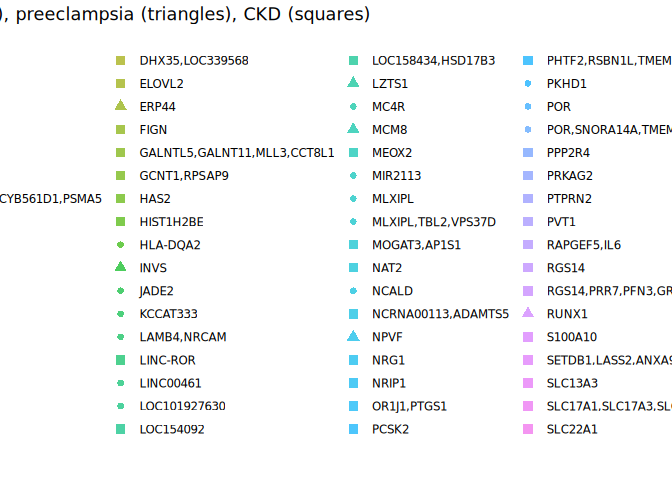
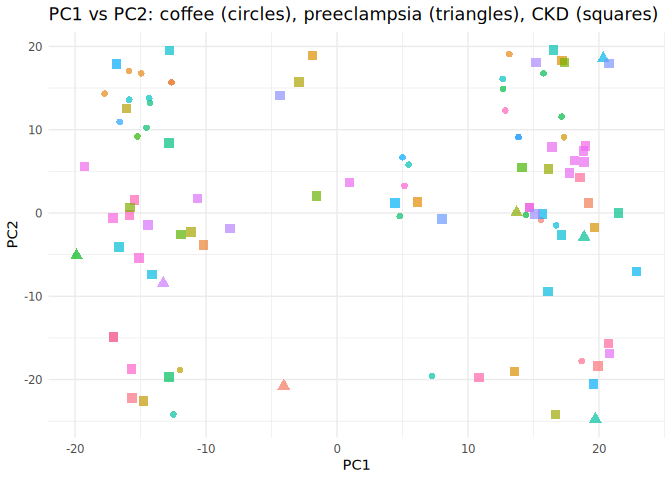
funy things

diff --git a/README.md b/README.md
@@ -26,7 +26,7 @@ library(ggplot2)
 # Use OpenRemoteParquetView to inspect the first few rows
 OpenRemoteParquetView()
 #> # Source:   table<embeddings> [?? x 6]
-#> # Database: DuckDB 1.4.0 [root@Linux 6.8.0-78-generic:R 4.5.1//tmp/RtmpCTNrgg/file89e57466fbea2.duckdb]
+#> # Database: DuckDB 1.4.0 [root@Linux 6.8.0-78-generic:R 4.5.1//tmp/RtmpaC1oPN/file8a11b57b47c4c.duckdb]
 #>    chrom pos       ref_UKB alt_UKB rsid       embedding    
 #>    <chr> <chr>     <chr>   <chr>   <chr>      <list>       
 #>  1 5     148899362 T       G       rs4705280  <dbl [3,072]>
@@ -51,7 +51,7 @@ CopyParquetToDuckDB(db_path = "local_embeddings.duckdb", overwrite = FALSE)
 )
 #> Database file 'local_embeddings.duckdb' already exists. Skipping copy.
 #>    user  system elapsed 
-#>   0.026   0.004   0.028
+#>   0.029   0.004   0.029
 file.info("local_embeddings.duckdb")$size
 #> [1] 12106084352
 ```
@@ -68,7 +68,7 @@ overwrite = FALSE)
 #> local_embeddings.houba.desc already exists.
 #> Using existing houba file and info data.
 #>    user  system elapsed 
-#>   0.556   0.047   0.567
+#>   0.557   0.062   0.577
 houba
 #> Houba mmatrix file: local_embeddings.houba 
 #> Embeddings (houba::mmatrix):
@@ -109,7 +109,7 @@ system.time(
 #> Dimensions: 616386 x 3072
 #> Running PCA with center=TRUE, scale=TRUE, ncomp=15
 #>    user  system elapsed 
-#> 359.694 119.450  55.819
+#> 361.102 118.134  54.795
 ```
 
 ## 5. Get PCA scores
@@ -171,14 +171,335 @@ preeclampsia_snps <- subset(plotDf, !is.na(gen_preeclampsia))|>
         unique()
 ckd_snps <- subset(plotDf, !is.na(gen_ckd)) |>
         unique()
-
+ckd_snps
+#>                PC1          PC2         PC3         PC4          PC5        PC6
+#> 17694   -8.1707296  -1.88110893  -0.6203109 -19.3518349  -7.26099463 15.9834875
+#> 17707  -15.1074108  -5.40505181   0.7885761 -18.9798407  -9.95432103 14.8730155
+#> 17712   14.6873125   0.62915141   0.8211190 -18.1659749  -9.72401461 15.8256590
+#> 17713   14.6873125   0.62915141   0.8211190 -18.1659749  -9.72401461 15.8256590
+#> 36481  -10.2005509  -3.82142856  -1.8724349 -22.9800034 -10.47307794 13.7570702
+#> 38806  -11.1594742  -2.25782428   1.9471137 -14.6123142  -9.85128792  7.7954153
+#> 98368  -19.2885600   5.61109719  22.3103538   2.6059541   4.50176286  6.6867847
+#> 98473   18.9819389   8.06190346  17.3092370   1.1247930   7.96556327  8.9105885
+#> 114743  16.1335753   5.29571936  19.2747163   3.0311373   6.20756077  5.8585342
+#> 124749  18.8258659   7.45439188  18.8059789   3.0852722   5.16441261  6.7037806
+#> 124775  16.4087049   7.92371706  19.6836119   2.4810578   5.95584585 12.1408469
+#> 124777  18.1383882   6.27419730  17.4768243   3.2202185   4.77404360  6.8728248
+#> 124788  18.8762203   6.14003907  18.8723139   5.0966832   3.71022620  7.0764404
+#> 124792  17.7350779   4.77401546  16.6554100   4.3862050   2.47093060  6.4235395
+#> 124800   0.9508051   3.66305112  18.7048505   8.3024639   4.80184481  3.1465195
+#> 125080  14.1169834   5.45218722  19.5992411   2.0970093   5.73580295 13.3869283
+#> 140728  18.5474976   4.26802669  18.5919938   5.7715276   4.05249853 17.8654015
+#> 184948 -12.8460678   8.41395564  18.5275873   1.4826624   5.21452451 14.3556847
+#> 193827  17.1908924  18.28810347  -9.6962566  -7.6161654  13.23137552  1.4986244
+#> 193830  -1.8875292  18.90126650 -13.7620366  -7.8586443  14.67115064  5.2543496
+#> 194543  20.7505822  17.92814976 -15.4445109 -10.4507828  17.68844316  7.9745586
+#> 194848  17.3844595  18.06908334 -12.3389516 -13.7413227  10.67127497 -0.4921044
+#> 198844  -4.3398137  14.07584268 -10.2139275  -9.4071964  17.11025476  8.9327446
+#> 210679  16.5118557  19.56028530 -10.6668968  -8.8730870  11.35142359  2.3056846
+#> 215696  15.1865044  18.05171406 -12.4565138  -7.6214521  18.54427474  0.6606322
+#> 243283 -16.8318017  17.87814694 -10.4848613  -6.5522146  15.71491159 -0.6924643
+#> 254606 -16.0882349  12.53065983  -7.5744633 -13.4858717  14.52059885 12.0338778
+#> 254626  -2.9075740  15.70709291 -11.4747899 -10.8729962  16.23241475  3.8473013
+#> 255308 -12.8057703  19.50619646 -12.2851688  -9.9078302  19.50257201  5.7566127
+#> 280318  19.6479964  -1.71290777 -12.3946386  11.9400960   1.42154702 11.2111641
+#> 295522 -16.6499217  -4.05981689 -11.0419740  14.6750710  -2.29249583  8.0186504
+#> 295524  17.1293726  -2.63673263 -11.2175684  13.2256866  -3.83212785  3.3822631
+#> 300234 -15.8630236  -0.26204662 -11.1405401  13.7647201  -2.06575122 10.3772089
+#> 305533  15.6746291  -0.10152447 -10.5229240   7.3415374   1.90950310 19.0891336
+#> 346098 -11.9214303  -2.58929657 -11.6703706  11.9185558  -1.00693794 14.3742954
+#> 350168  15.1013844  -0.11365375 -11.9964461  11.8337390  -2.67374758 15.6443484
+#> 393593  -1.5754886   2.04947271  -1.3964159   2.3219703   5.27613444 16.9814277
+#> 398552 -17.1237032  -0.62341839  -3.3957887   6.1514464   2.46753823  9.7266345
+#> 405470  21.5038992  -0.01269771  -3.2684386   4.3824922   3.82919039 14.0771358
+#> 422359   4.4090204   1.21808442  -3.2409320   4.2636164   0.24823150 12.9539599
+#> 425594   8.0204083  -0.74006294  -4.1686374   2.0095085   5.17978866 19.9522831
+#> 431874  19.2119532   1.20149302  -4.8040380  -4.7649066   3.33947148 11.8561335
+#> 436568   6.1642755   1.33505483  -0.3710476  -5.7887638  -2.62211212  8.3671210
+#> 441143  10.8535263 -19.76563489   0.1456441   9.1293784   5.80758786 11.5374337
+#> 453810  13.5403797 -19.05511863  -4.5127613   4.0392236   2.76199030 13.3174776
+#> 470261 -12.8309928 -19.68759103  -4.0883615   8.0419421  -1.88655301  4.3461918
+#> 504292  20.7230308 -15.66379092  -1.5403506  -4.1942957  10.13142821  4.2426386
+#> 505713 -15.7027593 -18.71037144   2.5466590  -5.7830766  16.05040503 16.4898356
+#> 505785 -17.0524989 -14.87486149  -4.0238391  -0.1718643  10.65450456  7.3761177
+#> 505786 -17.0524989 -14.87486149  -4.0238391  -0.1718643  10.65450456  7.3761177
+#> 522142 -10.6400036   1.71778314  -0.5889791  -9.0343820   1.17291878 17.5471804
+#> 522616 -15.4662742   1.56003271  -1.7107821  -5.9384123  -3.04418928 10.6930758
+#> 522629 -14.4325301  -1.43906079  -2.0257378  -5.4064870  -0.35959907 17.7653477
+#> 534351  19.9400923 -18.35227688   5.9209982 -13.0968862  16.71369735 -5.1855934
+#> 545314  19.5774266 -20.50486778   3.9050698 -11.3742734  15.31923626 -5.8674763
+#> 549435 -14.7834028 -22.59057911   4.8308446 -12.9377833  18.78217616 -4.1258170
+#> 554416  16.6819654 -24.21521981   6.3475716 -11.4076003  18.69654633 -8.1508529
+#> 559149  20.8129401 -16.88471075   6.1137166 -10.4776483  15.60311270 -7.7588935
+#> 563049 -15.6636305 -22.18769669   6.6315487 -11.9301128  15.25270569 -8.5402011
+#> 578225 -15.8250258   0.65309209   0.1119929  -2.0263631  -0.03830282  1.7186844
+#> 590556  22.8809711  -6.99485725  -1.4069129 -11.4693446  11.62998784  9.5666883
+#> 604260 -14.1293126  -7.37495766  -4.8011699  -7.0568948  13.36619200  5.6231758
+#> 604270  16.1012272  -9.41560597  -4.5823575 -12.1460819  15.44472353 10.7654580
+#>                PC7          PC8          PC9         PC10         PC11
+#> 17694   -3.3321155  -1.02505853   5.83789911  -1.33758396  -4.58364437
+#> 17707   -3.9240707   2.17382803   3.50380294  -6.47218428  -9.54747876
+#> 17712   -1.8492478   1.82172617   5.21899180  -2.13655889  -3.15366511
+#> 17713   -1.8492478   1.82172617   5.21899180  -2.13655889  -3.15366511
+#> 36481   -2.4800011   1.68558334   9.56225065  -2.51952312  -8.82298480
+#> 38806   -1.5835267   4.63618581  10.49623203  -8.47912164 -10.29985089
+#> 98368   -4.1439265   2.93956967   2.72052136  -4.24359985  -5.52586152
+#> 98473   -4.1240230   5.88188762   8.26709427  -4.82180644  -1.01945781
+#> 114743  -4.3651303   4.76608542  -0.81977453  -4.03515504  -6.99276638
+#> 124749  -6.2961443   1.12332514  -1.10260280  -5.73712727  -9.81607708
+#> 124775  -6.5490042   2.27669438   4.16181131  -5.77501554  -5.83446920
+#> 124777  -4.3477929   2.38736458  -1.31198319  -6.84923356  -9.61660530
+#> 124788  -7.0746854   3.66639784  -1.52248898  -5.27505325  -8.38400308
+#> 124792  -6.1079024   1.42295451   3.20604642  -8.67379203  -8.22614858
+#> 124800  -4.0344218  -0.30253410  13.48350612 -14.08434884  -5.00385701
+#> 125080  -2.1891304  -1.21679418  10.57304194   9.20045071   5.65220780
+#> 140728 -12.4377297   2.56458638  -3.31476998  -2.30649636   8.87535163
+#> 184948  -6.3279498   1.63826489   0.33502242  -3.02774541  14.81210716
+#> 193827  -7.7643503   0.29799303  -4.73599332  -2.25096122  -7.16558374
+#> 193830  -7.1431129  -0.16981756   8.86545363  -2.97329208  -2.61680028
+#> 194543 -10.6670924  -4.27913089   3.22216501  -1.69808797  -5.13040912
+#> 194848  -2.2834902  -4.34510536   6.69172575  -9.12151751  -0.28575328
+#> 198844  -3.8570517  -1.60170867  17.39691877 -12.93786048  -0.05041504
+#> 210679  -5.9423748  -2.98456650  -9.73684996  -6.68573824  11.00792100
+#> 215696  -5.7601932  -1.40589390   2.33461361  -7.18122657  -3.21709280
+#> 243283  -6.3725771  -5.36426497   2.86729398   6.33089349  -1.84481651
+#> 254606  -5.5245955  -2.03876185  -2.81255864   2.64194505  -9.08058152
+#> 254626  -0.2457480  -3.10649647  14.15116640  -3.40196382  -1.54031303
+#> 255308  -7.1559434  -5.17123539  10.57830479   8.91194085  -0.29119665
+#> 280318  -5.4431778  11.53404432   4.74125008   1.53035432  -1.01221695
+#> 295522  -5.8617157   7.25615512  15.69163374   6.36649791  -0.18010585
+#> 295524  -2.8806704   4.58866135  12.11576095   3.56639939  -2.51192288
+#> 300234  -6.5514526   9.06070307   8.61449999   9.54884677  -0.36183445
+#> 305533  -3.5273918  11.50693082   7.13341347  -7.31798327   3.13089470
+#> 346098  -9.1006487  14.82451089   4.76573862  11.21323810   4.44988599
+#> 350168  -8.4187332  15.91851509  -2.17522184  -3.74310429   5.14064256
+#> 393593  20.3918555   0.34535050  16.19795395   0.61914343   9.43956159
+#> 398552  14.8954891   1.22610020  -6.04255534  -6.49991607   8.09782988
+#> 405470  17.9918041  -2.54556291   9.22010639   5.34021053   0.33261893
+#> 422359  15.8325404   0.85832548 -21.27939229  -0.40777269   6.27829804
+#> 425594  14.8044793   2.87505064   4.60012993  -6.38420845  -2.08478315
+#> 431874   5.1497305  -3.58306196   9.42495062   7.63774027  -0.91343470
+#> 436568   1.6421624  -0.32403240  -8.68413827  13.67242642 -14.24973015
+#> 441143  -8.9414567 -15.17778175   7.47707829  -7.07071880  -6.65468304
+#> 453810 -14.0663401 -12.75305644 -10.85705233  -1.11473417  -3.08892017
+#> 470261 -10.3765359 -16.94097160   1.10184196   5.79444432  -1.31963528
+#> 504292   9.9994446  -8.23724207  -0.05026466   8.43352019  -0.21778548
+#> 505713   7.4825501  -5.83973050  -2.91514557  -2.33136381   2.82029922
+#> 505785  10.5915771  -3.20011860  -6.73796644   0.03515606  -5.03246642
+#> 505786  10.5915771  -3.20011860  -6.73796644   0.03515606  -5.03246642
+#> 522142   2.5355796   0.07591177   1.84296760   8.01421036  -4.87239530
+#> 522616  -2.4045465   1.20345589   3.66857555   9.63222580  -9.44975247
+#> 522629  -5.0533659   6.33470185   6.24597384   1.47186628  -9.77998726
+#> 534351  -0.8425488  17.28002054   1.16322415  -2.65354272  -2.54497776
+#> 545314  -3.2762345  18.18985798  -1.12072877  -1.64455742  -6.42090444
+#> 549435  -2.0173374  16.86991437  -2.29851542   0.45843208  11.34496715
+#> 554416  -1.8214956  15.29219497   5.93190403   7.91850032   6.11119025
+#> 559149  -2.2903515  15.28780539   0.69791673  -1.69929137  -6.64868843
+#> 563049  -4.8086150  17.93584035  -3.59950514  -3.79112175  10.02474981
+#> 578225   4.5970644   0.58979875   6.35189541   4.17180519  -2.35171363
+#> 590556   0.7616795   2.48120263   6.37006940   3.23107798   3.30209115
+#> 604260  -0.4746661   1.24871963  -0.12863324  -5.90857622   7.25686632
+#> 604270  -3.2607632   3.83402164   0.55293723  -7.62733660  10.75927498
+#>               PC12        PC13         PC14         PC15 chrom       pos
+#> 17694    5.3962461  2.33084215  -2.46005079   4.47065273     5 177361569
+#> 17707    1.6916309  0.01324786   4.28080801  -1.04024199     5 177386403
+#> 17712    2.5260012 -0.16911538  -1.90534706   4.74718490     5 177390635
+#> 17713    2.5260012 -0.16911538  -1.90534706   4.74718490     5 177390635
+#> 36481    7.3641629 -1.19330979  -0.88990356  -8.72651616     5  35037010
+#> 38806    1.9754195 -3.91499282  -4.34073533  -5.62462485     5  39378013
+#> 98368   -5.3991330  3.41136698   0.79757006   6.59163975     6 160122116
+#> 98473   -3.8911987  2.70979114  -5.04639356  -1.37530885     6 160247357
+#> 114743   0.1631395  1.15080983  -1.00847697  -2.33749795     6  11028421
+#> 124749   4.7908075 -0.66082490  -2.40599826  -0.31942063     6  25770638
+#> 124775  -0.1470745 -0.29325800  -1.29331939   1.72310793     6  25794203
+#> 124777   1.4804533  0.48450306   0.77609758   3.32966375     6  25799448
+#> 124788   1.6449216  1.89545307   0.77036733  -0.36387141     6  25818527
+#> 124792  -0.6620510  3.33816339  -1.62986463   3.84254712     6  25818538
+#> 124800   1.3849592  2.05264981   1.04938669   4.53530194     6  25821388
+#> 125080  -1.3199656  4.19639718   1.39991796  -1.73470695     6  26185972
+#> 140728   3.4325041 -3.38383432  -0.79046677  -3.64010360     6  43838872
+#> 184948  -5.1709909 -0.14242343   1.51979464   3.70300225     6 134503073
+#> 193827   2.0622341  2.46278078  -0.80944782   6.43841144     7 150842165
+#> 193830   2.2680049  0.42477212  -1.74935475   5.24047575     7 150845427
+#> 194543  -1.3833165  1.25219545   0.10733521  -0.94144222     7 151710715
+#> 194848  -2.4835595 -0.02834495   2.77412145   4.01821779     7 152013462
+#> 198844  -4.0779897  5.56212951  -3.84581324   1.02262730     7 157757146
+#> 210679  -3.9867186  0.76839288  -0.81426658   5.73798061     7  15693493
+#> 215696   0.8143015 -2.93695033  -0.09107121  -1.75215424     7  22474434
+#> 243283   1.9013630  0.17793119   1.28454685  -1.19988138     7  77787122
+#> 254606   9.1400465 -1.33169704   2.83110672  -4.52577614     7  99672916
+#> 254626   8.1682554 -3.44633582   1.94403104  -1.44944770     7  99735325
+#> 255308  -1.7666501 -0.85122841   2.95270028   2.58292660     7 101192604
+#> 280318   6.4852861  5.42924287  -1.05495510  -2.45926182     8   1891807
+#> 295522  -3.8311295  3.16757416  -2.18102374  -1.65853894     8  18414928
+#> 295524  -3.9762580  4.27932237   2.26046338   2.34409722     8  18415371
+#> 300234  -4.8823432  2.67871847   6.13270379   1.19090205     8  23893638
+#> 305533   0.4886822  0.44759104   7.38837259   1.69697238     8  32554841
+#> 346098  -1.1503114  5.06045141   1.91701512   1.46150014     8 121610260
+#> 350168   1.1471793  1.61238031   2.14545667   2.09734008     8 128059915
+#> 393593  -2.0333307 -4.94582912   1.90836605  -0.84573736     9  76423254
+#> 398552  -6.4140612 -5.92962067  -1.92087339   0.94896806     9  84611173
+#> 405470  -1.0652904 -5.99816305  -2.69763248   0.23971745     9  96167968
+#> 422359  -5.6933819 -3.40620820  -6.11588318  -0.39321464     9 122458945
+#> 425594  -0.7895130 -6.49566795  -4.45188406  -1.94034584     9 129112362
+#> 431874 -10.4078384  1.86021970   7.48287894  10.67681649     1  99937719
+#> 436568 -14.9775523  3.20664552  11.57375673  10.73455844     1 109457216
+#> 441143   1.7840722 -3.32413133   1.73917545   0.04372362    18    673086
+#> 453810  -3.4717703 -3.85934742  -0.80509598   0.75802464    18  26813249
+#> 470261  -1.5858874 -5.50798442   0.93067355   1.75593174    18  57097183
+#> 504292  13.0540108 20.17731076  -2.17901002   2.23482103    19  29914778
+#> 505713  15.5397808 15.36179694  -0.38348756   1.39252442    19  32692906
+#> 505785  14.3361947 12.90555790  -3.13760751   4.65429496    19  32865985
+#> 505786  14.3361947 12.90555790  -3.13760751   4.65429496    19  32865985
+#> 522142 -13.9686136  6.88854691  13.81604237  16.18058765     1 150979001
+#> 522616 -13.1958536  3.56473552  12.63977529  17.73515773     1 151967388
+#> 522629 -12.5481919  2.33977499  11.93854678  17.55613871     1 151982754
+#> 534351   1.6796840 -4.38207063  -1.44149826   0.65795897    20   2510563
+#> 545314  -2.7687459 -4.22202595 -10.08062102   1.56564132    20  17376928
+#> 549435  -5.1200326 -6.78216273  -0.09140363  -0.03783004    20  23632100
+#> 554416  -0.3019794 -7.57028999   1.11496571  -0.62686709    20  39061821
+#> 559149   3.4818633 -4.53647452  -2.39366244   2.80684086    20  46659814
+#> 563049  -0.7168325 -6.89731094  -3.94302482   3.05483677    20  52676385
+#> 578225 -19.0145763 12.22882416  -5.11852826  -7.45803187     2 163327819
+#> 590556  -7.3638422  3.11519634  22.19556729 -11.81661751    21  15204463
+#> 604260  -5.1599505 -1.29198469  20.64106607 -15.48346962    21  27362678
+#> 604270  -6.6769960 -1.48146205  24.80044827 -14.12812144    21  27372037
+#>        ref_UKB alt_UKB       rsid gen_coffee gen_preeclampsia
+#> 17694        C       T  rs4976646       <NA>             <NA>
+#> 17707        T       C  rs3812036       <NA>             <NA>
+#> 17712        G       A  rs6420094       <NA>             <NA>
+#> 17713        G       A  rs6420094       <NA>             <NA>
+#> 36481        T       C    rs37369       <NA>             <NA>
+#> 38806        T       C  rs1362800       <NA>             <NA>
+#> 98368        T       C rs12208357       <NA>             <NA>
+#> 98473        G       A  rs2279463       <NA>             <NA>
+#> 114743       A       G  rs2208338       <NA>             <NA>
+#> 124749       A       G  rs3757130       <NA>             <NA>
+#> 124775       A       G  rs2762353       <NA>             <NA>
+#> 124777       G       A  rs1165213       <NA>             <NA>
+#> 124788       A       G  rs9461218       <NA>             <NA>
+#> 124792       A       G  rs1165152       <NA>             <NA>
+#> 124800       T       G  rs1165151       <NA>             <NA>
+#> 125080       G       A  rs9379832       <NA>             <NA>
+#> 140728       G       A   rs881858       <NA>             <NA>
+#> 184948       T       C rs10872424       <NA>             <NA>
+#> 193827       A       G  rs6464114       <NA>             <NA>
+#> 193830       T       G  rs6977081       <NA>             <NA>
+#> 194543       A       G  rs7805747       <NA>             <NA>
+#> 194848       G       A  rs1019173       <NA>             <NA>
+#> 198844       G       T  rs1242780       <NA>             <NA>
+#> 210679       A       G rs11764932       <NA>             <NA>
+#> 215696       G       A rs17364464       <NA>             <NA>
+#> 243283       C       T  rs6465825       <NA>             <NA>
+#> 254606       T       C   rs776746       <NA>             <NA>
+#> 254626       G       T rs45446698       <NA>             <NA>
+#> 255308       T       C  rs7780766       <NA>             <NA>
+#> 280318       A       G  rs4292733       <NA>             <NA>
+#> 295522       C       T  rs4921914       <NA>             <NA>
+#> 295524       G       A  rs1495741       <NA>             <NA>
+#> 300234       T       C rs10109414       <NA>             <NA>
+#> 305533       A       G  rs2439312       <NA>             <NA>
+#> 346098       C       T rs17232789       <NA>             <NA>
+#> 350168       A       G  rs2648875       <NA>             <NA>
+#> 393593       G       T  rs6560517       <NA>             <NA>
+#> 398552       C       T  rs1020120       <NA>             <NA>
+#> 405470       G       A  rs9785234       <NA>             <NA>
+#> 422359       A       C  rs1771792       <NA>             <NA>
+#> 425594       A       G  rs7849270       <NA>             <NA>
+#> 431874       G       A rs10783124       <NA>             <NA>
+#> 436568       A       C  rs1933182       <NA>             <NA>
+#> 441143       G       A     rs2790       <NA>             <NA>
+#> 453810       A       C rs16942751       <NA>             <NA>
+#> 470261       C       T rs12963285       <NA>             <NA>
+#> 504292       G       A  rs4805497       <NA>             <NA>
+#> 505713       T       C  rs4805801       <NA>             <NA>
+#> 505785       C       T rs12460876       <NA>             <NA>
+#> 505786       C       T rs12460876       <NA>             <NA>
+#> 522142       C       T   rs267734       <NA>             <NA>
+#> 522616       C       T  rs6657658       <NA>             <NA>
+#> 522629       T       C  rs6587640       <NA>             <NA>
+#> 534351       A       G  rs6036759       <NA>             <NA>
+#> 545314       A       G  rs4814615       <NA>             <NA>
+#> 549435       C       T   rs911119       <NA>             <NA>
+#> 554416       G       A   rs926392       <NA>             <NA>
+#> 559149       A       G  rs6066043       <NA>             <NA>
+#> 563049       T       C  rs6022039       <NA>             <NA>
+#> 578225       T       C  rs1032843       <NA>             <NA>
+#> 590556       A       G  rs2823139       <NA>             <NA>
+#> 604260       C       T  rs9977499       <NA>             <NA>
+#> 604270       A       G  rs1452093       <NA>             <NA>
+#>                                          gen_ckd
+#> 17694                                      RGS14
+#> 17707                                    SLC34A1
+#> 17712     RGS14,PRR7,PFN3,GRK6,SLC34A1,F12,LMAN2
+#> 17713                                    SLC34A1
+#> 36481                                      AGXT2
+#> 38806                                       DAB2
+#> 98368                                    SLC22A1
+#> 98473                                    SLC22A2
+#> 114743                                    ELOVL2
+#> 124749                   SLC17A1,SLC17A3,SLC17A4
+#> 124775                   SLC17A1,SLC17A3,SLC17A4
+#> 124777                   SLC17A1,SLC17A3,SLC17A4
+#> 124788                   SLC17A1,SLC17A3,SLC17A4
+#> 124792                   SLC17A1,SLC17A3,SLC17A4
+#> 124800                   SLC17A1,SLC17A3,SLC17A4
+#> 125080                                 HIST1H2BE
+#> 140728                                     VEGFA
+#> 184948                                 LOC154092
+#> 193827                                      AOC1
+#> 193830                                      AOC1
+#> 194543                                    PRKAG2
+#> 194848               GALNTL5,GALNT11,MLL3,CCT8L1
+#> 198844                                    PTPRN2
+#> 210679                                     MEOX2
+#> 215696                               RAPGEF5,IL6
+#> 243283                       PHTF2,RSBN1L,TMEM60
+#> 254606                                    CYP3A5
+#> 254626                                    CYP3A7
+#> 255308                              MOGAT3,AP1S1
+#> 280318                                  ARHGEF10
+#> 295522                                      NAT2
+#> 295524                                      NAT2
+#> 300234                                      STC1
+#> 305533                                      NRG1
+#> 346098                                      HAS2
+#> 350168                                      PVT1
+#> 393593                              GCNT1,RPSAP9
+#> 398552                             SLC28A3,NTRK2
+#> 405470                         LOC158434,HSD17B3
+#> 422359                               OR1J1,PTGS1
+#> 425594                                    PPP2R4
+#> 431874                               AGL,SLC35A3
+#> 436568 AMIGO1,SORT1,ATXN7L2,SYPL2,CYB561D1,PSMA5
+#> 441143                                      TYMS
+#> 453810                                      AQP4
+#> 470261                                  LINC-ROR
+#> 504292                                      URI1
+#> 505713                                    SLC7A9
+#> 505785                      CCDC123,ECAT8,SLC7A9
+#> 505786                                    SLC7A9
+#> 522142     SETDB1,LASS2,ANXA9,PRUNE,FAM63A,BNIPL
+#> 522616                             THEM4,S100A10
+#> 522629                                   S100A10
+#> 534351                               ZNF343,TMC2
+#> 545314                                     PCSK2
+#> 549435                            CST9,CST3,CST4
+#> 554416                           DHX35,LOC339568
+#> 559149                                   SLC13A3
+#> 563049                               ZFP64,TSHZ2
+#> 578225                                      FIGN
+#> 590556                                     NRIP1
+#> 604260                        NCRNA00113,ADAMTS5
+#> 604270                        NCRNA00113,ADAMTS5
 # Plot: coffee SNPs as circles, preeclampsia SNPs as triangles, CKD SNPs as squares
 ggplot() +
   geom_point(data = coffee_snps, aes(x = PC1, y = PC2, color = gen_coffee), shape = 16, size = 2, alpha = 0.7) +
   geom_point(data = preeclampsia_snps, aes(x = PC1, y = PC2, color = gen_preeclampsia), shape = 17, size = 3, alpha = 0.7) +
   geom_point(data = ckd_snps, aes(x = PC1, y = PC2, color = gen_ckd), shape = 15, size = 3, alpha = 0.7) +
-  labs(title = "PC1 vs PC2: coffee (circles), preeclampsia (triangles), CKD (squares)", color = "Gene annotation") +
-  theme_minimal()
+  labs(title = "PC1 vs PC2: coffee (circles), preeclampsia (triangles), CKD (squares)") +
+  theme_minimal() +
+  guides(color = "none")
 ```
 
 <img src="docs/README-unnamed-chunk-9-1.png" width="100%" />
